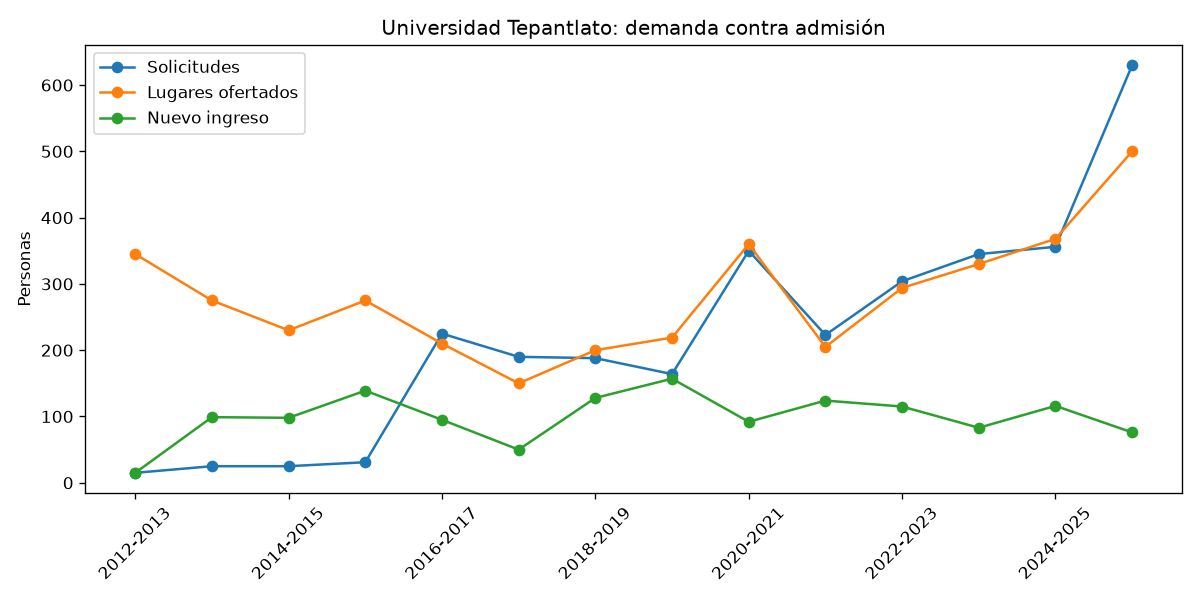
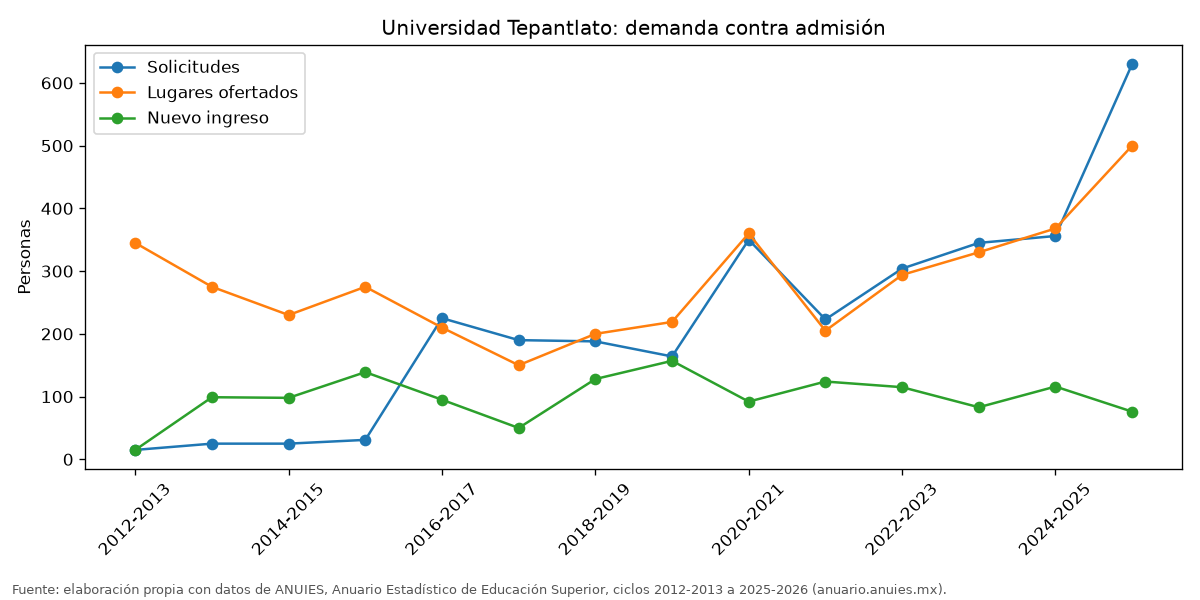
Agrega la fuente de los datos al pie de las gráficas

diff --git a/tepantlato.py b/tepantlato.py
@@ -51,28 +51,30 @@ por_nivel = filas.pivot_table(index="CICLO", columns="NIVEL", values="MAT_TOTAL"
 por_nivel.to_csv(SALIDA / "matricula_por_nivel.csv")
 
 # Gráficas
-ax = r[["MAT_TOTAL", "NI", "E", "T"]].rename(columns={
-    "MAT_TOTAL": "Matrícula", "NI": "Nuevo ingreso", "E": "Egresados", "T": "Titulados"}).plot(marker="o", figsize=(10, 5))
-ax.set(title="Universidad Tepantlato: evolución por ciclo", xlabel="", ylabel="Personas")
-ax.tick_params(axis="x", rotation=45)
-plt.tight_layout(); plt.savefig(SALIDA / "evolucion.png", dpi=120); plt.close()
+FUENTE = (f"Fuente: elaboración propia con datos de ANUIES, Anuario Estadístico de Educación Superior, "
+          f"ciclos {r.index[0]} a {r.index[-1]} (anuario.anuies.mx).")
 
-ax = por_nivel.plot.area(figsize=(10, 5))
-ax.set(title="Universidad Tepantlato: matrícula por nivel", xlabel="", ylabel="Matrícula")
-ax.tick_params(axis="x", rotation=45)
-plt.tight_layout(); plt.savefig(SALIDA / "matricula_por_nivel.png", dpi=120); plt.close()
 
-ax = r[["PCT_MUJERES_MAT", "TASA_TITULACION"]].rename(columns={
-    "PCT_MUJERES_MAT": "% mujeres en matrícula", "TASA_TITULACION": "Titulados / egresados (%)"}).plot(marker="o", figsize=(10, 5))
-ax.set(title="Universidad Tepantlato: composición por sexo y titulación", xlabel="", ylabel="%")
-ax.tick_params(axis="x", rotation=45)
-plt.tight_layout(); plt.savefig(SALIDA / "sexo_titulacion.png", dpi=120); plt.close()
+def guardar(ax, titulo, ylabel, archivo):
+    ax.set(title=f"Universidad Tepantlato: {titulo}", xlabel="", ylabel=ylabel)
+    ax.tick_params(axis="x", rotation=45)
+    fig = ax.figure
+    fig.tight_layout(rect=(0, 0.04, 1, 1))
+    fig.text(0.01, 0.01, FUENTE, fontsize=8, color="#555")
+    fig.savefig(SALIDA / archivo, dpi=120)
+    plt.close(fig)
 
-ax = r[["SNI", "LO_REAL", "NI"]].rename(columns={
-    "SNI": "Solicitudes", "LO_REAL": "Lugares ofertados", "NI": "Nuevo ingreso"}).plot(marker="o", figsize=(10, 5))
-ax.set(title="Universidad Tepantlato: demanda contra admisión", xlabel="", ylabel="Personas")
-ax.tick_params(axis="x", rotation=45)
-plt.tight_layout(); plt.savefig(SALIDA / "demanda.png", dpi=120); plt.close()
+
+guardar(r[["MAT_TOTAL", "NI", "E", "T"]].rename(columns={
+    "MAT_TOTAL": "Matrícula", "NI": "Nuevo ingreso", "E": "Egresados", "T": "Titulados"}).plot(marker="o", figsize=(10, 5)),
+    "evolución por ciclo", "Personas", "evolucion.png")
+guardar(por_nivel.plot.area(figsize=(10, 5)), "matrícula por nivel", "Matrícula", "matricula_por_nivel.png")
+guardar(r[["PCT_MUJERES_MAT", "TASA_TITULACION"]].rename(columns={
+    "PCT_MUJERES_MAT": "% mujeres en matrícula", "TASA_TITULACION": "Titulados / egresados (%)"}).plot(marker="o", figsize=(10, 5)),
+    "composición por sexo y titulación", "%", "sexo_titulacion.png")
+guardar(r[["SNI", "LO_REAL", "NI"]].rename(columns={
+    "SNI": "Solicitudes", "LO_REAL": "Lugares ofertados", "NI": "Nuevo ingreso"}).plot(marker="o", figsize=(10, 5)),
+    "demanda contra admisión", "Personas", "demanda.png")
 
 pd.set_option("display.width", 200, "display.max_columns", 30, "display.max_rows", 200)
 print(r[["MAT_TOTAL", "NI", "SNI", "LO_REAL", "E", "T", "PCT_MUJERES_MAT", "TASA_TITULACION", "PROGRAMAS"]].round(1))
